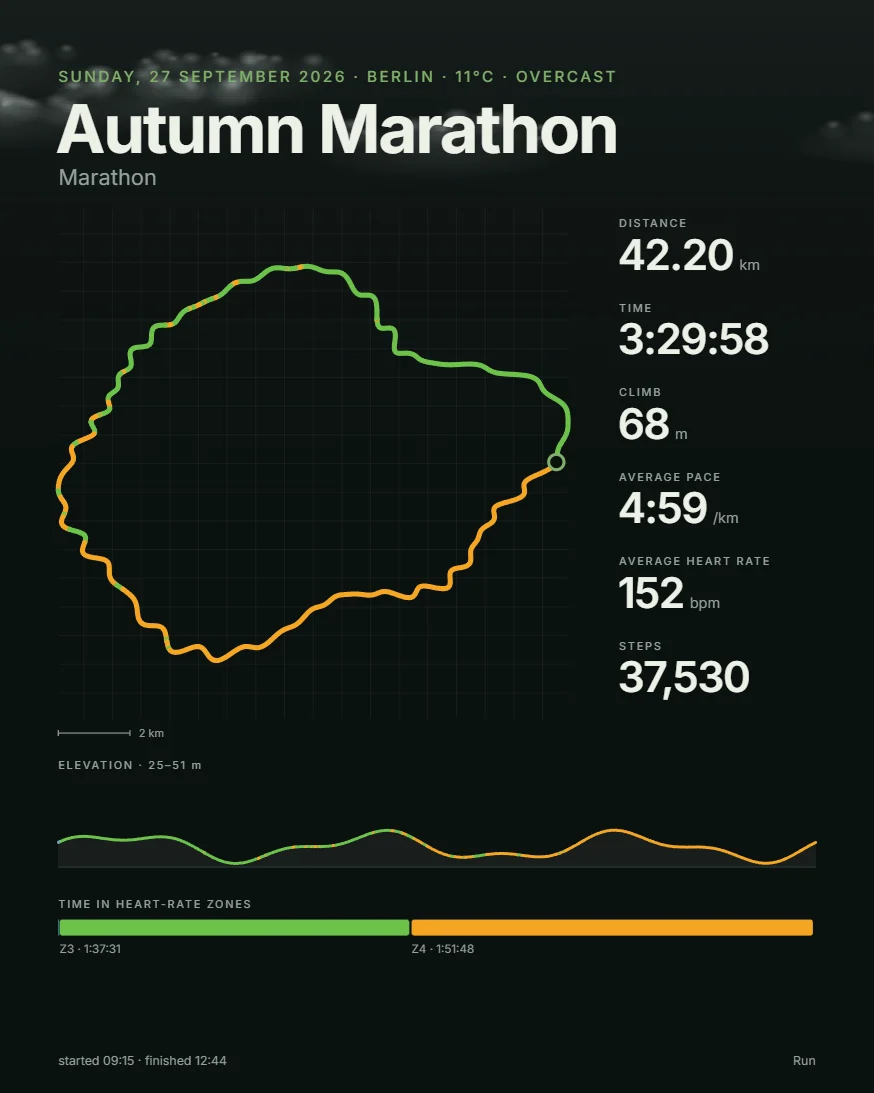
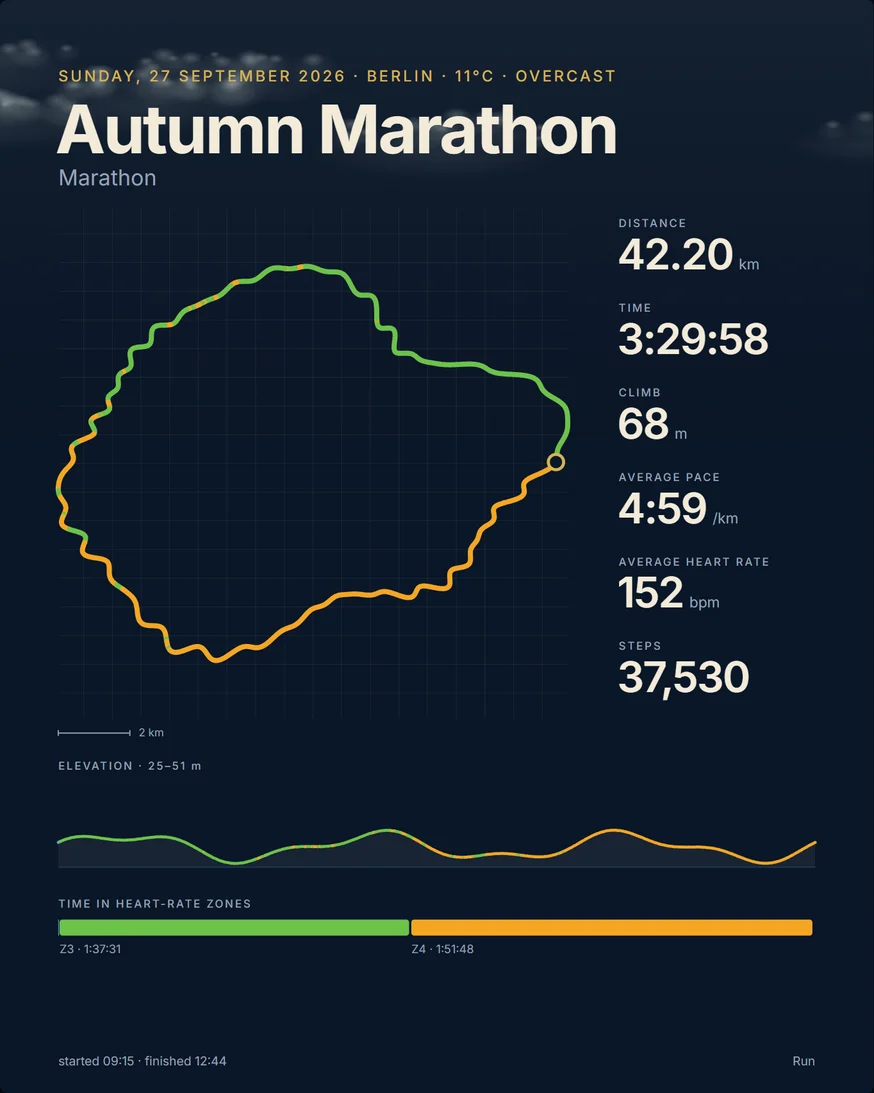
Become TerraInk Runs, served at terraink.space/run
basePath /run so the TerraInk landing can rewrite /run/* here (multi-zones).
The five looks are now TerraInk themes (Midnight Blue, Heatwave, Neon,
Terracotta, Coral) and the site palette, icon and template previews follow.

diff --git a/src/lib/kit.js b/src/lib/kit.js
@@ -182,12 +182,13 @@ export function words(RUN, F) {
 }
 
 const ZONES_DARK = ['#8A9BA8', '#8A9BA8', '#4FA3E0', '#6CC24A', '#F5A623', '#E5484D'], ZONES_LIGHT = ['#9AA7B0', '#9AA7B0', '#2F86C8', '#4FA832', '#E8920C', '#D6353A'];
+/* The five looks are TerraInk themes (terraink-mobile/app/src/data/themes.json): same names, same colours as the map posters. */
 export const LOOKS = {
-  night: { name: 'Night', dark: true, bg: '#0B1110', bg2: '#18231f', edge: '#070b0a', panel: '#131C19', line: '#24312C', fg: '#EEF1E7', soft: '#93A29B', accent: '#7FB069', signal: '#FF6B35', zones: ZONES_DARK },
-  ocean: { name: 'Ocean', dark: true, bg: '#0A1122', bg2: '#16224A', edge: '#050913', panel: '#111B33', line: '#243258', fg: '#E8EEFB', soft: '#8E9CC0', accent: '#8AB8FF', signal: '#FFB23F', zones: ZONES_DARK },
-  ember: { name: 'Ember', dark: true, bg: '#160E0B', bg2: '#2C1812', edge: '#0B0605', panel: '#211410', line: '#3D261E', fg: '#F8ECE4', soft: '#B79D90', accent: '#F2A65A', signal: '#FF5A36', zones: ZONES_DARK },
-  paper: { name: 'Paper', dark: false, bg: '#F1EFE7', bg2: '#F7F5EF', edge: '#E6E3D8', panel: '#E7E4D9', line: '#D9D6CB', fg: '#16201C', soft: '#6B756F', accent: '#3F6B3A', signal: '#E5541F', zones: ZONES_LIGHT },
-  snow: { name: 'Snow', dark: false, bg: '#FFFFFF', bg2: '#FFFFFF', edge: '#EDF0F3', panel: '#F1F3F5', line: '#E1E5EA', fg: '#0E1116', soft: '#687180', accent: '#1F6FEB', signal: '#F0503C', zones: ZONES_LIGHT },
+  midnight_blue: { name: 'Midnight Blue', dark: true, bg: '#0A1628', bg2: '#0F2235', edge: '#061020', panel: '#0F2235', line: '#1E3450', fg: '#F3EBD8', soft: '#97A3B6', accent: '#D6B352', signal: '#FF5F1F', zones: ZONES_DARK },
+  heatwave: { name: 'Heatwave', dark: true, bg: '#1C0E09', bg2: '#381A10', edge: '#0E0604', panel: '#2C140C', line: '#4A2618', fg: '#FFEBC9', soft: '#C29C7E', accent: '#FFD78A', signal: '#FF5F1F', zones: ZONES_DARK },
+  neon: { name: 'Neon', dark: true, bg: '#0D0D1A', bg2: '#17172A', edge: '#080815', panel: '#141426', line: '#27274A', fg: '#E8FFFF', soft: '#8C8CB4', accent: '#00FFFF', signal: '#FF00F0', zones: ZONES_DARK },
+  terracotta: { name: 'Terracotta', dark: false, bg: '#F5EDE4', bg2: '#FAF5EF', edge: '#E8E0D0', panel: '#EDE3D7', line: '#DDD0C0', fg: '#2E1A0E', soft: '#8A6E5C', accent: '#A0522D', signal: '#E8531A', zones: ZONES_LIGHT },
+  coral: { name: 'Coral', dark: false, bg: '#F3E1DA', bg2: '#F8EBE6', edge: '#EACFC6', panel: '#EBD3CA', line: '#DFC0B5', fg: '#4A1F1A', soft: '#8E5E56', accent: '#B9473A', signal: '#E0662F', zones: ZONES_LIGHT },
 };
 const LOOK_KEY = 'garminLook.look';
 const savedLook = () => { try { return localStorage.getItem(LOOK_KEY); } catch { return null; } };

diff --git a/src/templates/film.js b/src/templates/film.js
@@ -17,7 +17,7 @@ function draw(root, signal, resume, embed, scope) {
   const HALO = 'halo [paint-order:stroke] [stroke-linejoin:round] stroke-(--ink)', GROW_X = '[transform-box:fill-box] origin-left', VBAR = '[transform-box:fill-box] origin-bottom';
   const ENTER = cubicBezier(0.16, 1, 0.3, 1), EXIT = 'in(2)', MOVE = 'inOut(3)', TOTAL = 60000;
   const REPLAY0 = 7000, REPLAY_D = 21000;
-  const { L, C, ZC } = Kit.wear(root, 'night', 'ink', embed?.look);
+  const { L, C, ZC } = Kit.wear(root, 'midnight_blue', 'ink', embed?.look);
   const RUN = Runs.current('film'), M = RUN.meta, T = RUN.track, N = T.x.length, DIST = M.distance, DUR = M.elapsed, KMS = DIST / Kit.unitM(), HR = M.hasHr;
   const F = Kit.fmt(RUN), { hms, pace, int, dec, clock, zone, startSec } = F, WD = Kit.words(RUN, F), { BPM } = WD;
   if (!HR) ZC[0] = C.moss; // no heart-rate data: one colour
@@ -210,7 +210,7 @@ function draw(root, signal, resume, embed, scope) {
   const [HC, HH, HD] = [c1, h1, d1].map(el => [...el.querySelectorAll('[data-word]')]);
 
   const S = { p: 0 };
-  const SKY = [[7, [13, 22, 27]], [12.5, [12, 20, 16]], [18.6, [27, 19, 12]]]; // [hour of day, rgb tint]
+  const SKY = [[7, [12, 25, 44]], [12.5, [10, 22, 40]], [18.6, [30, 22, 34]]]; // [hour of day, rgb tint]
   let lastP = -1, lastHr = M.avgHr || 140;
   function render() {
     if (S.p === lastP) return; lastP = S.p;
@@ -228,7 +228,7 @@ function draw(root, signal, resume, embed, scope) {
     E.km.textContent = dec(d / F.U); E.mi.textContent = F.MI ? dec(d / 1000) + ' km' : dec(d / 1609.344) + ' mi'; E.el.textContent = hms(te); E.clk.textContent = clock(te);
     E.up.textContent = int(F.ht(up)); E.altv.textContent = Math.round(F.ht(a)); E.pc.textContent = v > 0.6 ? pace(F.U / v) : '–';
     if (HR) { E.bpm.textContent = Math.round(b); E.zchip.textContent = 'Z' + z; E.zchip.style.background = ZC[z]; lastHr = b; }
-    if (L.key !== 'night') return;
+    if (L.key !== 'midnight_blue') return;
     const hr = (startSec + te) / 3600; let k = 0; while (k < SKY.length - 2 && hr > SKY[k + 1][0]) k++;
     const g = Math.min(1, Math.max(0, (hr - SKY[k][0]) / (SKY[k + 1][0] - SKY[k][0]))), c = SKY[k][1].map((q, n) => Math.round(q + (SKY[k + 1][1][n] - q) * g));
     sky.style.background = `radial-gradient(120% 90% at 30% 40%, rgb(${c.map(q => q + 14)}) 0%, rgb(${c}) 55%, ${L.edge} 100%)`;

diff --git a/src/components/Panel.tsx b/src/components/Panel.tsx
@@ -11,7 +11,7 @@ import { ToggleGroup, ToggleGroupItem } from '@/components/ui/toggle-group';
 import { Tooltip, TooltipContent, TooltipProvider, TooltipTrigger } from '@/components/ui/tooltip';
 import { cn } from '@/lib/utils';
 
-type Look = { name: string; bg: string; line: string; signal: string };
+type Look = { name: string; bg: string; line: string; accent: string };
 type Words = Record<string, string>;
 type State = { t?: number; playing?: boolean; sound?: boolean; exporting?: boolean; note: string; [k: string]: unknown };
 type Weather = { text?: string; temp?: number; rain?: boolean; snow?: boolean };
@@ -153,7 +153,7 @@ export default function Panel({ c }: { c: Controls }) {
                   <button type="button" role="radio" aria-checked={k === c.look} aria-label={L.name} onClick={() => k !== c.look && c.setLook(k)}
                     className={cn('size-8 rounded-full border ring-offset-2 ring-offset-card transition-transform outline-none hover:scale-110 focus-visible:ring-2 focus-visible:ring-ring',
                       k === c.look && 'ring-2 ring-foreground')}
-                    style={{ background: `radial-gradient(circle, ${L.signal} 0 5px, ${L.bg} 6px)`, borderColor: L.line }} />
+                    style={{ background: `radial-gradient(circle, ${L.accent} 0 5px, ${L.bg} 6px)`, borderColor: L.line }} />
                 </TooltipTrigger>
                 <TooltipContent>{L.name}</TooltipContent>
               </Tooltip>

diff --git a/src/app/globals.css b/src/app/globals.css
@@ -47,14 +47,14 @@
 }
 
 :root, [data-theme="dark"] {
-  --bg: #060908; --ink: #0B1110; --peat: #131C19; --line: #24312C; --paper: #EEF1E7; --soft: #93A29B;
-  --moss: #7FB069; --signal: #FF6B35; --panel: #121a17; --panel-hover: #19231f; --mute: #c9d3ce; --alert: #ff9d7a;
-  --on-signal: #160a05;
+  --bg: #050B16; --ink: #0A1628; --peat: #0F2235; --line: #1E3450; --paper: #F3EBD8; --soft: #97A3B6;
+  --moss: #D6B352; --signal: #FF5F1F; --panel: #0C1B30; --panel-hover: #13253F; --mute: #D5DCE6; --alert: #FF9D7A;
+  --on-signal: #1C0E09;
   color-scheme: dark;
 }
 [data-theme="light"] {
-  --bg: #F1EFE7; --ink: #FBFAF6; --peat: #E6E3D8; --line: #D6D2C5; --paper: #16201C; --soft: #5F6A64;
-  --moss: #3F6B3A; --signal: #E5541F; --panel: #FBFAF6; --panel-hover: #ECE9DF; --mute: #16201C; --alert: #B83A12;
+  --bg: #F5EDE4; --ink: #FBF7F1; --peat: #EDE3D7; --line: #DDD0C0; --paper: #0B1F3F; --soft: #6E6458;
+  --moss: #A0522D; --signal: #E8531A; --panel: #FBF7F1; --panel-hover: #F0E6D8; --mute: #0B1F3F; --alert: #B83A12;
   --on-signal: #FFFFFF;
   color-scheme: light;
 }

diff --git a/src/templates/poster.js b/src/templates/poster.js
@@ -11,7 +11,7 @@ export function mount(root, signal, resume, embed) {
 function draw(root, signal, resume, embed, scope) {
   root.innerHTML = '<svg id="poster" class="block rounded-[6px] shadow-[0_24px_80px_#000c] aspect-[4/5] h-[min(calc(100vh_-_48px),calc((100vw_-_372px)*1.25))] max-[999px]:h-[min(72vh,calc(94vw*1.25))]" viewBox="0 0 1200 1500" xmlns="http://www.w3.org/2000/svg" font-family="Inter, \'Helvetica Neue\', Arial, sans-serif"></svg>';
   const asvg = svg, { h, poly } = Kit;
-  const { L, C, ZC } = Kit.wear(root, 'paper', 'paper', embed?.look);
+  const { L, C, ZC } = Kit.wear(root, 'terracotta', 'paper', embed?.look);
   const RUN = Runs.current('poster'), M = RUN.meta, T = RUN.track, N = T.x.length, DIST = M.distance, DUR = M.elapsed, KMS = DIST / Kit.unitM(), HR = M.hasHr;
   const F = Kit.fmt(RUN), { hms, pace, int, dec, clock, zone } = F, WD = Kit.words(RUN, F), UI = WD.ui;
   if (!HR) ZC[0] = C.moss;

diff --git a/src/templates/print.js b/src/templates/print.js
@@ -12,7 +12,7 @@ export function mount(root, signal, resume, embed) {
 
 function draw(root, signal, resume, embed, scope) {
   root.innerHTML = '<svg id="print" class="block rounded-[6px] shadow-[0_24px_80px_#000c] aspect-[3/4] h-[min(calc(100vh_-_48px),calc((100vw_-_372px)*4/3))] max-[999px]:h-[min(72vh,calc(94vw*4/3))]" viewBox="0 0 1200 1600" xmlns="http://www.w3.org/2000/svg" font-family="Inter, \'Helvetica Neue\', Arial, sans-serif"></svg>';
-  const { h, poly } = Kit, G = Kit.wear(root, 'night', 'ink', embed?.look).L;
+  const { h, poly } = Kit, G = Kit.wear(root, 'midnight_blue', 'ink', embed?.look).L;
   const RUN = Runs.current('print'), M = RUN.meta, T = RUN.track, N = T.x.length, DIST = M.distance, DUR = M.elapsed, KMS = DIST / Kit.unitM(), HR = M.hasHr;
   const F = Kit.fmt(RUN), { hms, pace, int, dec, clock, zone } = F, WD = Kit.words(RUN, F), UI = WD.ui;
   const TX =

diff --git a/src/templates/square.js b/src/templates/square.js
@@ -14,7 +14,7 @@ function draw(root, signal, resume, embed, scope) {
   const { h, poly, LAYER, FB, VIEWBOX } = Kit;
   const EYEBROW = 'eyebrow text-[19px]/[1.25] font-medium tracking-[.16em] text-(color:--moss) uppercase', HIDE = 'absolute opacity-0';
   const ENTER = cubicBezier(0.16, 1, 0.3, 1), EXIT = 'in(2)', MOVE = 'inOut(3)', TOTAL = 17000, REPLAY0 = 3600, REPLAY_D = 7400;
-  const { L, C, ZC } = Kit.wear(root, 'paper', 'paper', embed?.look);
+  const { L, C, ZC } = Kit.wear(root, 'terracotta', 'paper', embed?.look);
   const RUN = Runs.current('square'), M = RUN.meta, T = RUN.track, N = T.x.length, DIST = M.distance, DUR = M.elapsed, KMS = DIST / Kit.unitM(), HR = M.hasHr;
   const F = Kit.fmt(RUN), { hms, pace, int, dec, clock, zone } = F, WD = Kit.words(RUN, F), { BPM } = WD;
   if (!HR) ZC[0] = C.moss;

diff --git a/src/templates/story.js b/src/templates/story.js
@@ -14,7 +14,7 @@ function draw(root, signal, resume, embed, scope) {
   const { h, poly, LAYER, FB, VIEWBOX } = Kit;
   const EYEBROW = 'eyebrow text-[26px]/[1.2] font-medium tracking-[.16em] text-(color:--moss) uppercase', HIDE = 'absolute opacity-0';
   const ENTER = cubicBezier(0.16, 1, 0.3, 1), EXIT = 'in(2)', MOVE = 'inOut(3)', TOTAL = 22000, REPLAY0 = 3800, REPLAY_D = 9200;
-  const { L, C, ZC } = Kit.wear(root, 'night', 'ink', embed?.look);
+  const { L, C, ZC } = Kit.wear(root, 'midnight_blue', 'ink', embed?.look);
   const RUN = Runs.current('story'), M = RUN.meta, T = RUN.track, N = T.x.length, DIST = M.distance, DUR = M.elapsed, KMS = DIST / Kit.unitM(), HR = M.hasHr;
   const F = Kit.fmt(RUN), { hms, pace, int, dec, clock, zone } = F, WD = Kit.words(RUN, F), { BPM } = WD;
   if (!HR) ZC[0] = C.moss;

diff --git a/src/components/LiveFilm.tsx b/src/components/LiveFilm.tsx
@@ -24,7 +24,7 @@ export default function LiveFilm({ still, alt }: { still: { light: StaticImageDa
     let film: Film | undefined, io: IntersectionObserver | undefined;
     import('@/templates/film').then(mod => {
       if (ac.signal.aborted || !ref.current) return;
-      film = mod.mount(ref.current, ac.signal, at.current != null ? { t: at.current, playing: true } : undefined, { look: theme === 'light' ? 'paper' : 'night' }) as Film;
+      film = mod.mount(ref.current, ac.signal, at.current != null ? { t: at.current, playing: true } : undefined, { look: theme === 'light' ? 'terracotta' : 'midnight_blue' }) as Film;
       io = new IntersectionObserver(([e]) => film?.controls.play(e.isIntersecting)); io.observe(ref.current);
       setLive(true);
     });

diff --git a/src/components/Landing.tsx b/src/components/Landing.tsx
@@ -97,9 +97,10 @@ export default function Landing() {
         </div>
       </div>
       <header className="mx-auto flex max-w-6xl items-center justify-between px-6 pt-6">
-        <Link href="/" className={`flex items-center gap-2.5 font-semibold tracking-tight ${focus}`}>
-          <Mark className="h-6 w-9" /> Run films
-        </Link>
+        {/* terraink.space is a different zone, so a plain <a> rather than <Link> */}
+        <a href="https://terraink.space/" className={`flex items-center gap-2.5 font-semibold tracking-tight ${focus}`}>
+          <Mark className="h-6 w-9" /> <span>Terra<span className="text-signal">Ink</span> <span className="font-normal text-soft">Runs</span></span>
+        </a>
         <ThemeToggle />
       </header>
 

diff --git a/src/components/RunPreview.tsx b/src/components/RunPreview.tsx
@@ -21,7 +21,7 @@ export default function RunPreview({ template }: { template: Template }) {
     TEMPLATES[template]().then(mod => {
       if (ac.signal.aborted || !ref.current) return;
       const at = AT[template];
-      m = mod.mount(ref.current, ac.signal, at != null ? { t: at, playing: false } : undefined, { look: theme === 'light' ? 'paper' : 'night' });
+      m = mod.mount(ref.current, ac.signal, at != null ? { t: at, playing: false } : undefined, { look: theme === 'light' ? 'terracotta' : 'midnight_blue' });
     });
     return () => { ac.abort(); m?.destroy(); };
   }, [template, theme]);

diff --git a/src/app/layout.tsx b/src/app/layout.tsx
@@ -6,7 +6,7 @@ import './globals.css';
 const inter = Inter({ variable: '--font-inter', subsets: ['latin'] });
 
 export const metadata: Metadata = {
-  title: 'Run films · turn a run into a film',
+  title: 'TerraInk Runs · turn a run into a film',
   description: 'Drop the FIT file your watch recorded and get a film, a story, a square, a poster or a print drawn from the real data. Everything runs in your browser.',
 };
 
